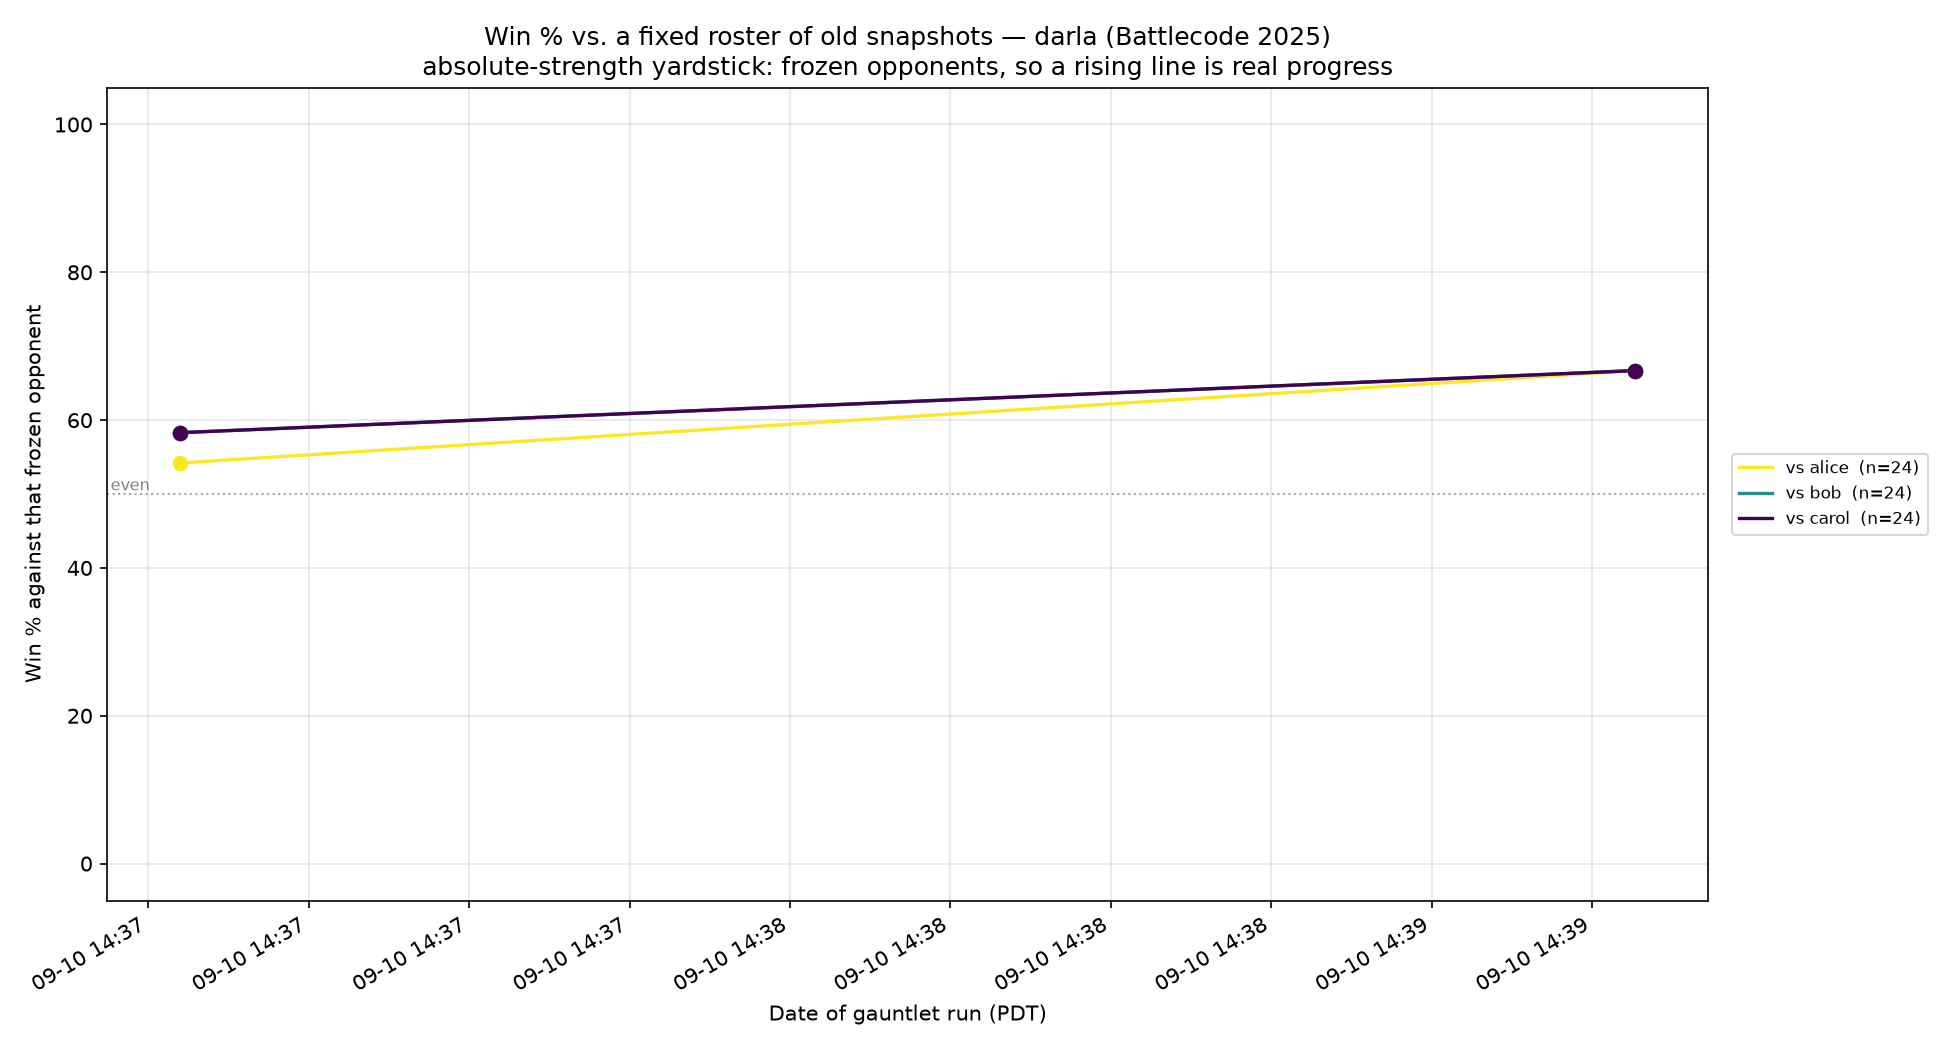
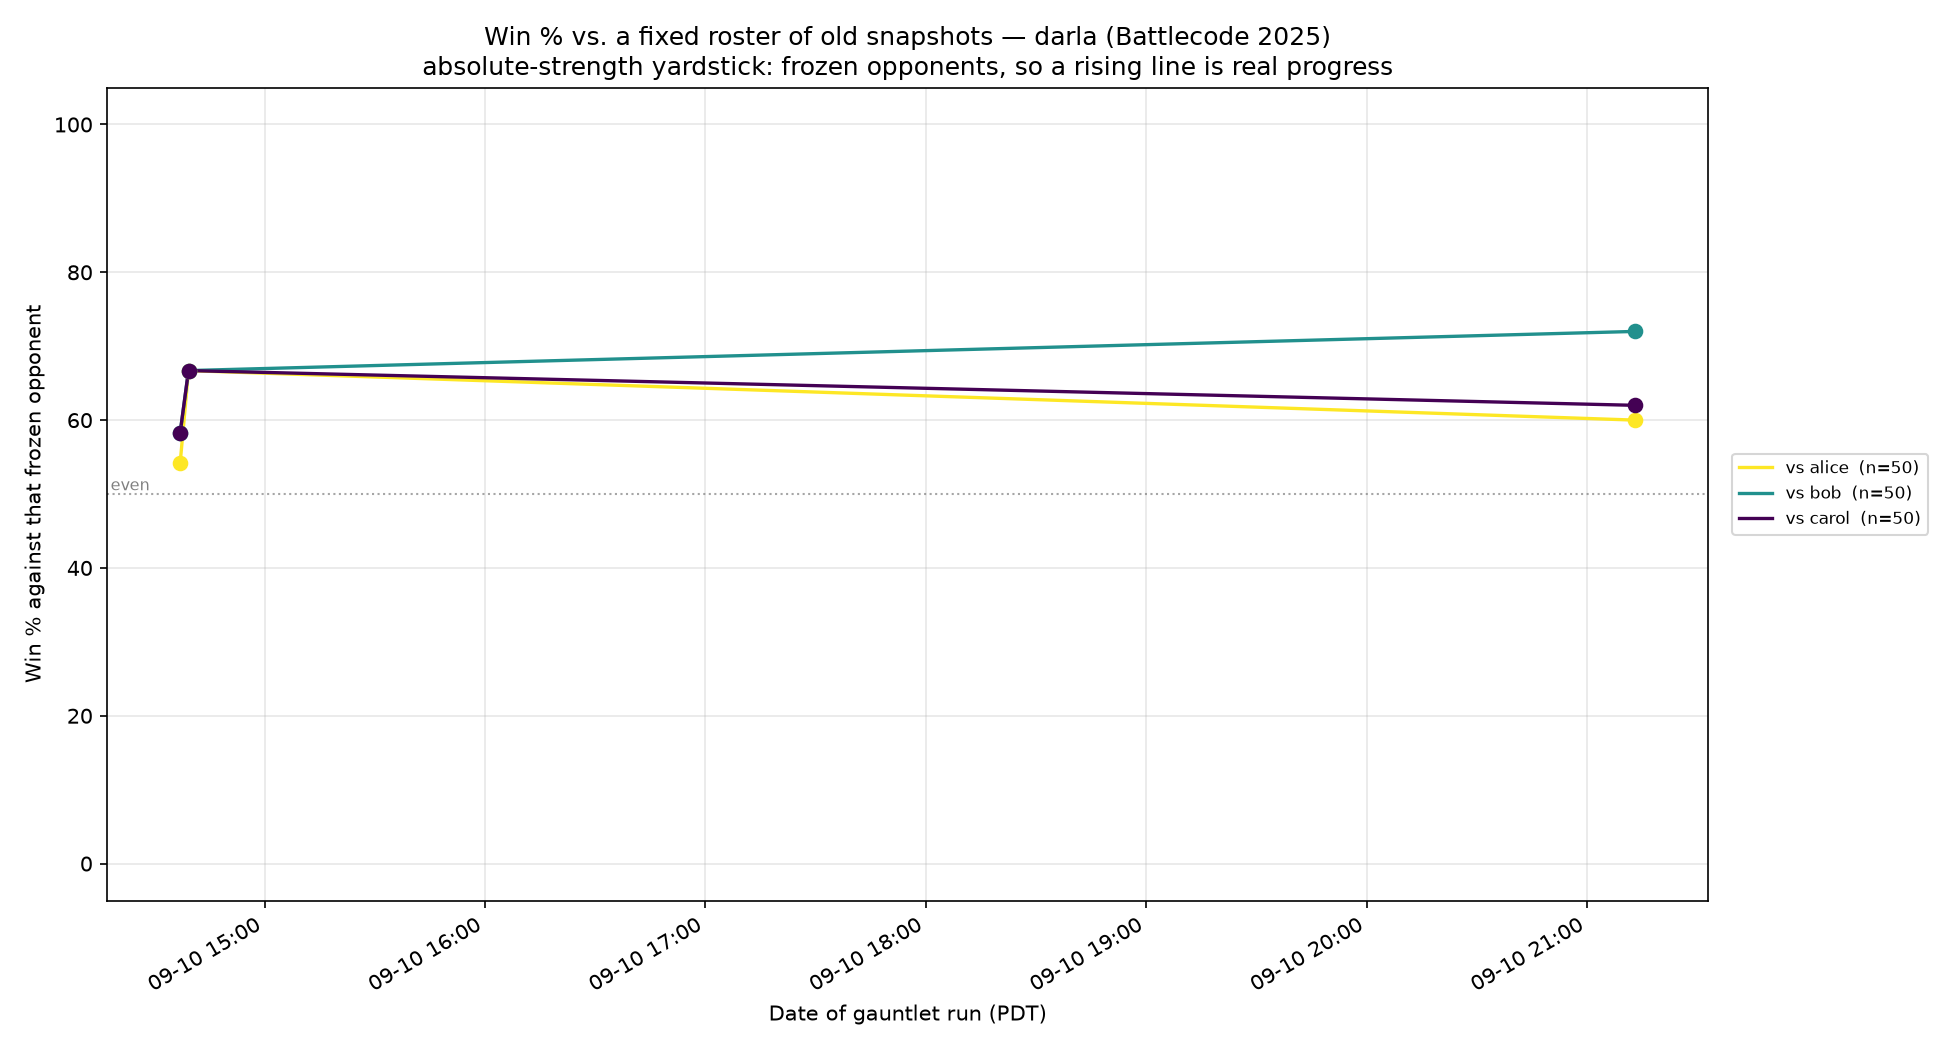
darla: the idle filler's first job is an instrument check
Fresh random 25-map sample of the baseline: 97/150 (64.7%) against the pinned
samples' 89/144 (61.8%) on disjoint maps -- a 2.9-point gap against a ~4.2-point
binomial sd. The aggregate replicates, so the nine rejections are not artefacts
of which twelve maps were drawn.

carol and alice legs replicate almost exactly (62.5->62.0, 60.4->60.0); bob's
moves 9.5 points, 1.3 sd at n=48 -- the concrete reason not to read a single
opponent leg as a result.

Claude-Session: https://claude.ai/code/session_01AaaGzxRUmH5UDEVerTki8y

diff --git a/agents/darla/DESIGN.md b/agents/darla/DESIGN.md
@@ -633,3 +633,32 @@ Registered prediction: if the reading above is right, both beat 89/144 and the
 curve is *increasing* in splasher share, opposite in sign to every dose ladder so
 far. If both lose, the mix is not the lever either and the coverage gap is coming
 from somewhere I have not yet measured.
+
+## Instrument check, produced by the idle filler rather than planned
+
+The filler's standing job — a fresh random 25-map sample of the shipped baseline
+against the three frozen lineages — landed as run `20260911-041301`, and it
+answers a question I had been assuming rather than testing: **how much of the
+matched-pair signal is map-sample luck?**
+
+| | pinned samples (144 games) | fresh 25-map sample (150 games) |
+|---|---|---|
+| overall | 89/144 — **61.8%** | 97/150 — **64.7%** |
+| vs carol | 62.5% | 62.0% |
+| vs bob | 62.5% | **72.0%** |
+| vs alice | 60.4% | 60.0% |
+
+**The aggregate replicates**: 61.8% against 64.7% on disjoint map sets, a 2.9-point
+gap against a binomial sd of ~4.2 points at this n. So map-sample variance is not
+swamping the instrument, and the nine rejections measured on the pinned samples
+stand — a −10 or −26 game margin is not an artefact of which twelve maps were
+drawn.
+
+**Two of the three legs replicate almost exactly** (carol 62.5 → 62.0, alice
+60.4 → 60.0). **bob's moves 9.5 points**, which at n=48 is 1.3 sd — inside noise,
+but it is the concrete reason not to read a single opponent leg as a result. I
+have been saying that in registrations; this measures it.
+
+Neither of these numbers is a new capability. The point is that the filler was
+designed as "never waste the VM" and its first output was a control I would not
+have scheduled, because I did not notice I was assuming it.
